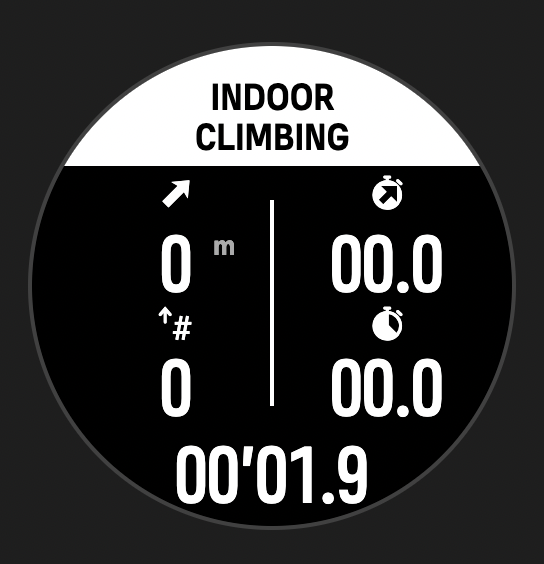
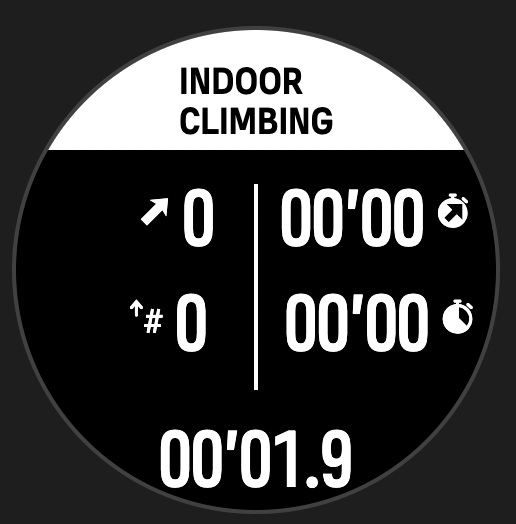
OMF : Refactor t.html & Upload the new images of screen , now no issues with the screens aspect

Changed region(s): [[0.0, 0.0305, 0.9922, 1.0], [0.2481, 0.5496, 0.4031, 0.7634]]

diff --git a/t.html b/t.html
@@ -1,10 +1,12 @@
+<!-- SuuntoPlus: Template with 5 fields and value icons -->
 <uiView>
 
+  <!-- Exercise viewset (vs) subview -->
   <div id="suuntoplus">
 
     <!-- logo/title and its bg -->
     <div class="cm-fg" style="width:100%;height:25%">
-      <div class="sp-t-m p-hc" style="text-align:center;top:calc(55% - 50%e)">
+      <div class="sp-t-m p-hc" style="top:calc(55% - 50%e)">
         INDOOR<br>
         CLIMBING<br>
       </div>
@@ -13,41 +15,93 @@
     <!-- vertical separator -->
     <div class="cm-fg p-hc" style="top:32%;width:2px;height:43%;opacity:2"></div>
 
-    <!-- Top Left -->
+    <!-- Note!
+      On large display icons are on the top of the value
+      and on medium and small displays icons are on the left or right of the value
+      in this layout
+    -->
+
+    <!-- top left -->
     <!-- Ascent   -->
-    <div class="f-ico" style="top:calc(35% - 100%e);left:calc(30% - 50%e)">&#xF112;</div>
-    <div class="cm-mid sp-t-s" style="top:calc(45% - 100%e);left:calc(40% - 50%e)">m</div>
-    <div class="sp-d-s f-num" style="top:calc(42% - 50%e);left:calc(30% - 50%e);">
+<:if test="{APP_IS_DISPLAY_LARGE}">
+    <div class="f-ico" style="top:calc(35% - 100%e);left:calc(38% - 50%e)">&#xF112;</div>
+    <div class="sp-d-m f-num" style="top:calc(41% - 50%e);left:calc(38% - 50%e)">
       <eval input="{zapp_ascent_input}" outputFormat="{zapp_ascent_format}" default="--" />
     </div>
+</:if>
+<:else>
+    <div style="top:26%;left:10%;width:46%;height:30%">
+      <div class="sp-d-s p-hc sp-vc">
+        <span class="f-ico" style="padding-right:4px">&#xF112;</span>
+        <span class="f-num">
+          <eval input="{zapp_ascent_input}" outputFormat="{zapp_ascent_format}" default="--" />
+        </span>
+      </div>
+    </div>
+</:else>
 
     <!-- top right -->
-    <!--  Time Duration of Ascent  -->
-    <div class="f-ico" style="top:calc(35% - 100%e);left:calc(74% - 50%e);">&#xF114;</div>
-    <div class="cm-mid sp-t-s" style="top:calc(45% - 100%e);left:calc(40% - 50%e)">m</div>
-    <div class="sp-d-s f-num" style="top:calc(42% - 50%e);left:calc(74% - 50%e);">
+    <!--  Time Duration of Ascent & Descent -->
+<:if test="{APP_IS_DISPLAY_LARGE}">    
+    <div class="f-ico" style="top:calc(35% - 100%e);left:calc(74% - 50%e)">&#xF114;</div>
+    <div class="sp-d-m f-num" style="top:calc(41% - 50%e);left:calc(74% - 50%e)">
       <eval input="{zapp_ascent_time_input}" outputFormat="{zapp_ascent_time_format}" default="--" />
     </div>
+</:if>
+<:else>
+    <div style="top:26%;left:52%;width:46%;height:30%">
+      <div class="p-hc sp-vc">
+        <span class="sp-d-s f-num">
+          <eval input="{zapp_ascent_time_input}" outputFormat="{zapp_ascent_time_format}" default="--" />
+        </span>
+        <span class="f-ico" style="padding-left:4px">&#xF114;</span>
+      </div>
+    </div>   
+</:else>
 
     <!-- middle left -->
     <!--  Time Duration of Ascent & Descent -->
-    <div class="f-ico" style="top:calc(62% - 100%e);left:calc(30% - 50%e);">&#xF265;</div>
-    <div class="sp-d-s f-num" style="top:calc(68% - 50%e);left:calc(30% - 50%e);">
+<:if test="{APP_IS_DISPLAY_LARGE}">    
+    <div class="f-ico" style="top:calc(60% - 100%e);left:calc(38% - 50%e)">&#xF265;</div>
+    <div class="sp-d-s f-num" style="top:calc(66% - 50%e);left:calc(38% - 50%e)">
       <eval input="{zapp_number_ascents_input}" outputFormat="{zapp_number_ascents_format}" default="--" />
     </div>
+</:if>
+<:else>
+    <div style="top:48%;left:10%;width:43%;height:30%">
+      <div class="p-hc sp-vc">
+        <span class="f-ico" style="padding-right:4px">&#xF265;</span>
+        <span class="sp-d-s f-num">
+          <eval input="{zapp_number_ascents_input}" outputFormat="{zapp_number_ascents_format}" default="--" />
+        </span>
+      </div>
+    </div>
+</:else>
 
     <!-- middle right -->
     <!--  Time Duration of Ascent & Descent -->
-    <div class="f-ico" style="top:calc(62% - 100%e);left:calc(74% - 50%e);">&#xF100;</div>
-    <div class="sp-d-s f-num" style="top:calc(68% - 50%e);left:calc(74% - 50%e);">
+<:if test="{APP_IS_DISPLAY_LARGE}">    
+    <div class="f-ico" style="top:calc(60% - 100%e);left:calc(74% - 50%e)">&#xF100;</div>
+    <div class="sp-d-s f-num" style="top:calc(66% - 50%e);left:calc(74% - 50%e)">
       <eval input="{zapp_ascent_descent_duration_input}" outputFormat="{zapp_ascent_descent_duration_format}" default="--" />
     </div>
+</:if>
+<:else>
+    <div style="top:48%;left:52%;width:48%;height:30%">
+      <div class="p-hc sp-vc">
+        <span class="sp-d-s f-num">
+          <eval input="{zapp_ascent_descent_duration_input}" outputFormat="{zapp_ascent_descent_duration_format}" default="--" />
+        </span>
+        <span class="f-ico" style="padding-left:4px">&#xF100;</span>
+      </div>
+    </div>
+</:else>
 
     <!-- bottom middle -->
     <!--  Workout Duration -->
     <div class="sp-d-s f-num p-hc" style="top:calc(86% - 50%e)">
       <eval input="{zapp_duration_input}" outputFormat="{zapp_duration_format}" default="--" />
-     </div>
+    </div>
 
   </div>
 
